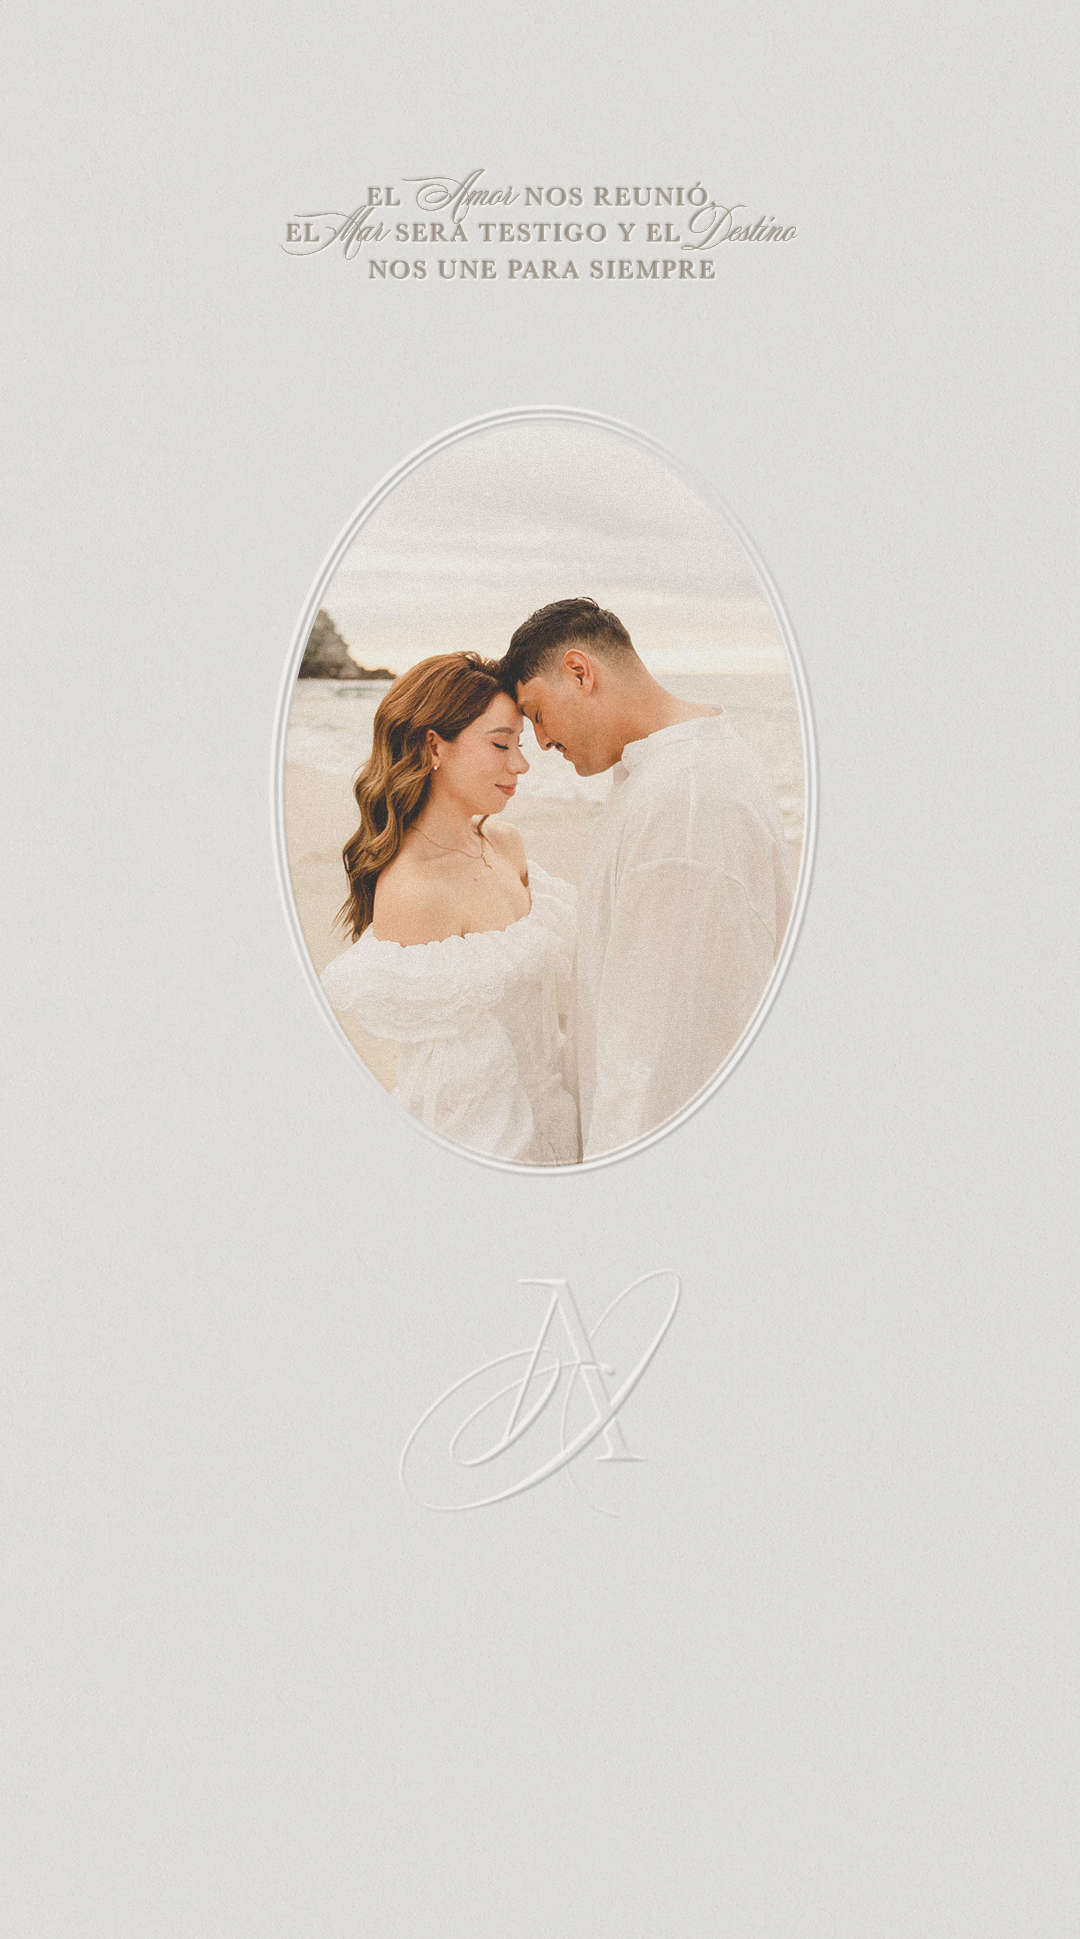
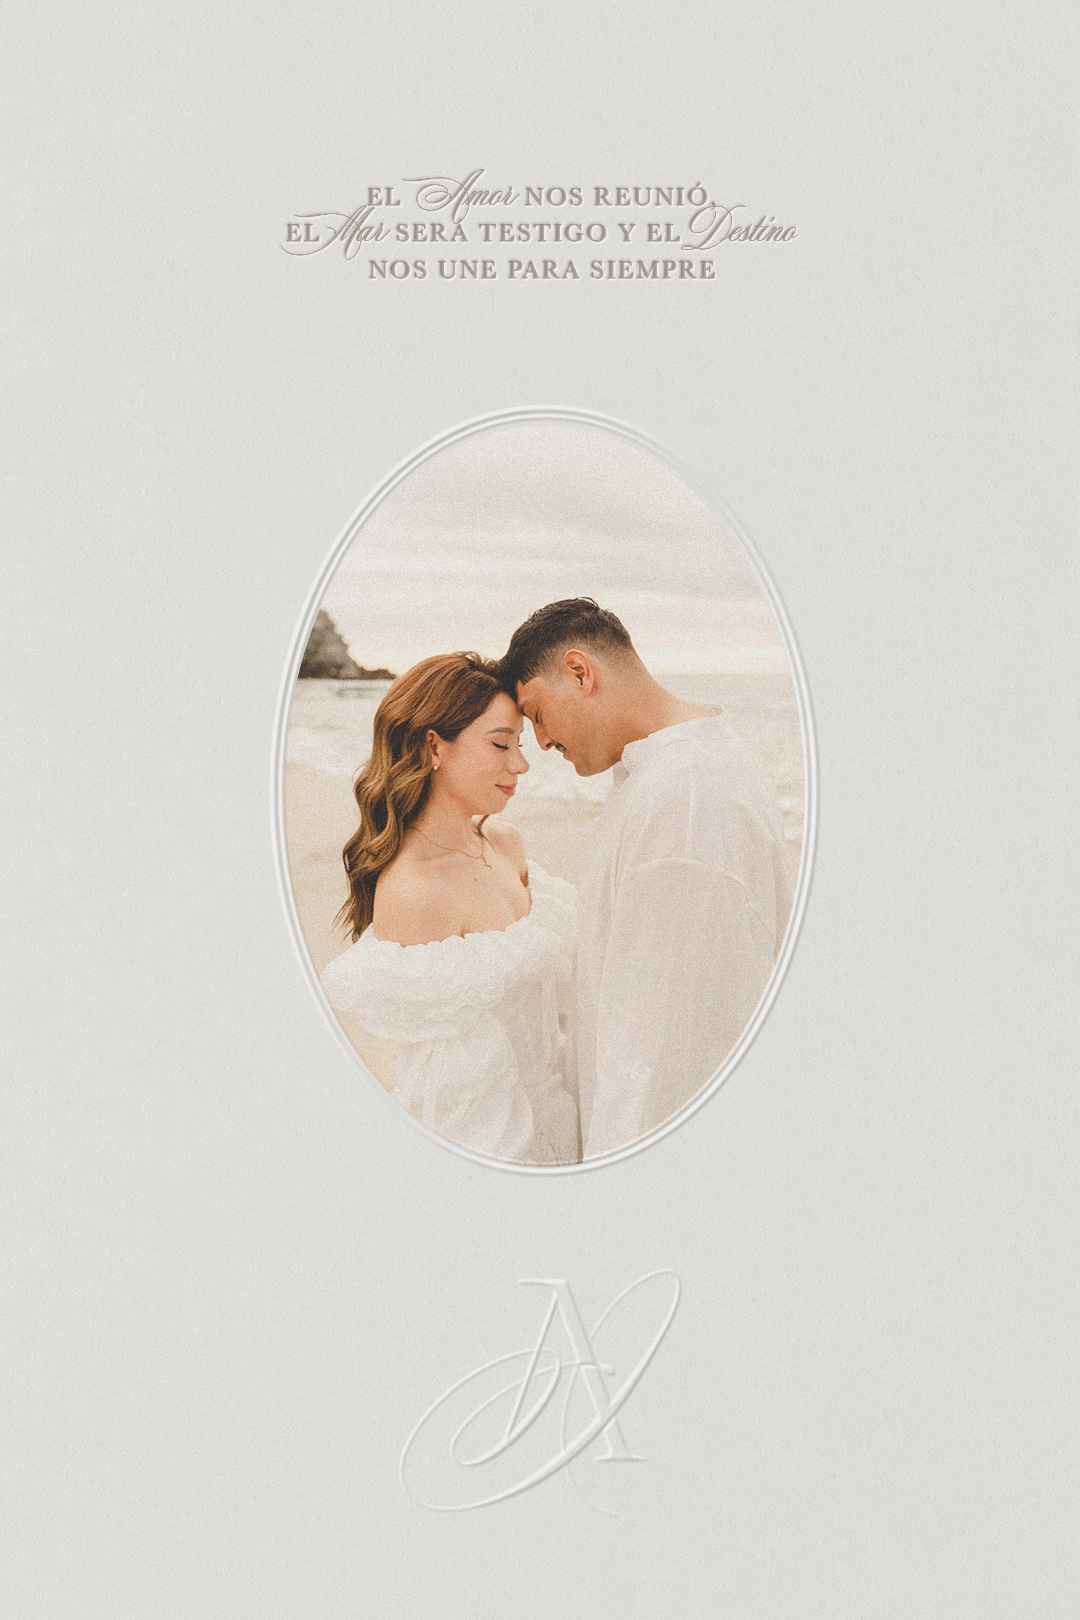
change dinamic buttons in images and sticky main section

diff --git a/app/components/FlipCard.tsx b/app/components/FlipCard.tsx
@@ -31,15 +31,29 @@ export default function FlipCard({ frontImage, backImage }: FlipCardProps) {
         />
 
         {/* BACK */}
-        <img
-          src={backImage}
-          alt="Back"
-          className="absolute w-full h-full object-contain"
-          style={{
-            backfaceVisibility: "hidden",
-            transform: "rotateY(180deg)",
-          }}
-        />
+        <div
+            className="absolute w-full h-full flex items-center justify-center"
+            style={{
+                backfaceVisibility: "hidden",
+                transform: "rotateY(180deg)",
+            }}
+            >
+            <img
+                src={backImage}
+                alt="Back"
+                className="absolute w-full h-full object-contain"
+            />
+
+            <a
+                href="https://maps.app.goo.gl/hLhQA6gAuD45uR3p9"
+                target="_blank"
+                rel="noopener noreferrer"
+                onClick={(e) => e.stopPropagation()}
+                className="font-serif italic tracking-widest text-[13px] absolute min-w-2.5 bottom-20 px-7 border border-[#734f55] rounded-full text-[#734f55] hover:bg-[#734f55] hover:text-white transition duration-300 bg-transparent backdrop-blur-sm hover:scale-105
+">
+                Ver ubicación
+            </a>
+        </div>
       </div>
     </div>
   );

diff --git a/app/page.tsx b/app/page.tsx
@@ -6,17 +6,24 @@ import styles from "./styles/home.module.css";
 
 export default function Home() {
   return (
-    <main className="min-h-screen flex flex-col items-center justify-center">
-      <div className="">
-          <Image
-            src="/images/A&I_INVITACION_PT1.png"
-            alt="Portada"
-            width={1200}
-            height={800}
-            className="w-full h-auto"
-          />
+    <main className="min-h-screen">
+
+      <div className="sticky top-0 min-h-[70vh] overflow-hidden z-0">
+        <div className="absolute top-0 w-full flex justify-center">
+          <div className="w-full max-w-md">
+            <Image
+              src="/images/A&I_INVITACION_PT1.png"
+              alt="Portada"
+              width={600}
+              height={1000}
+              className="w-full h-auto"
+              priority
+            />
+          </div>
+        </div>
       </div>
-      <div className="">
+
+      <div className="relative z-10 bg-transparent">
         <Image
           src="/images/A&I_INVITACION_PT2.png"
           alt="Portada"
